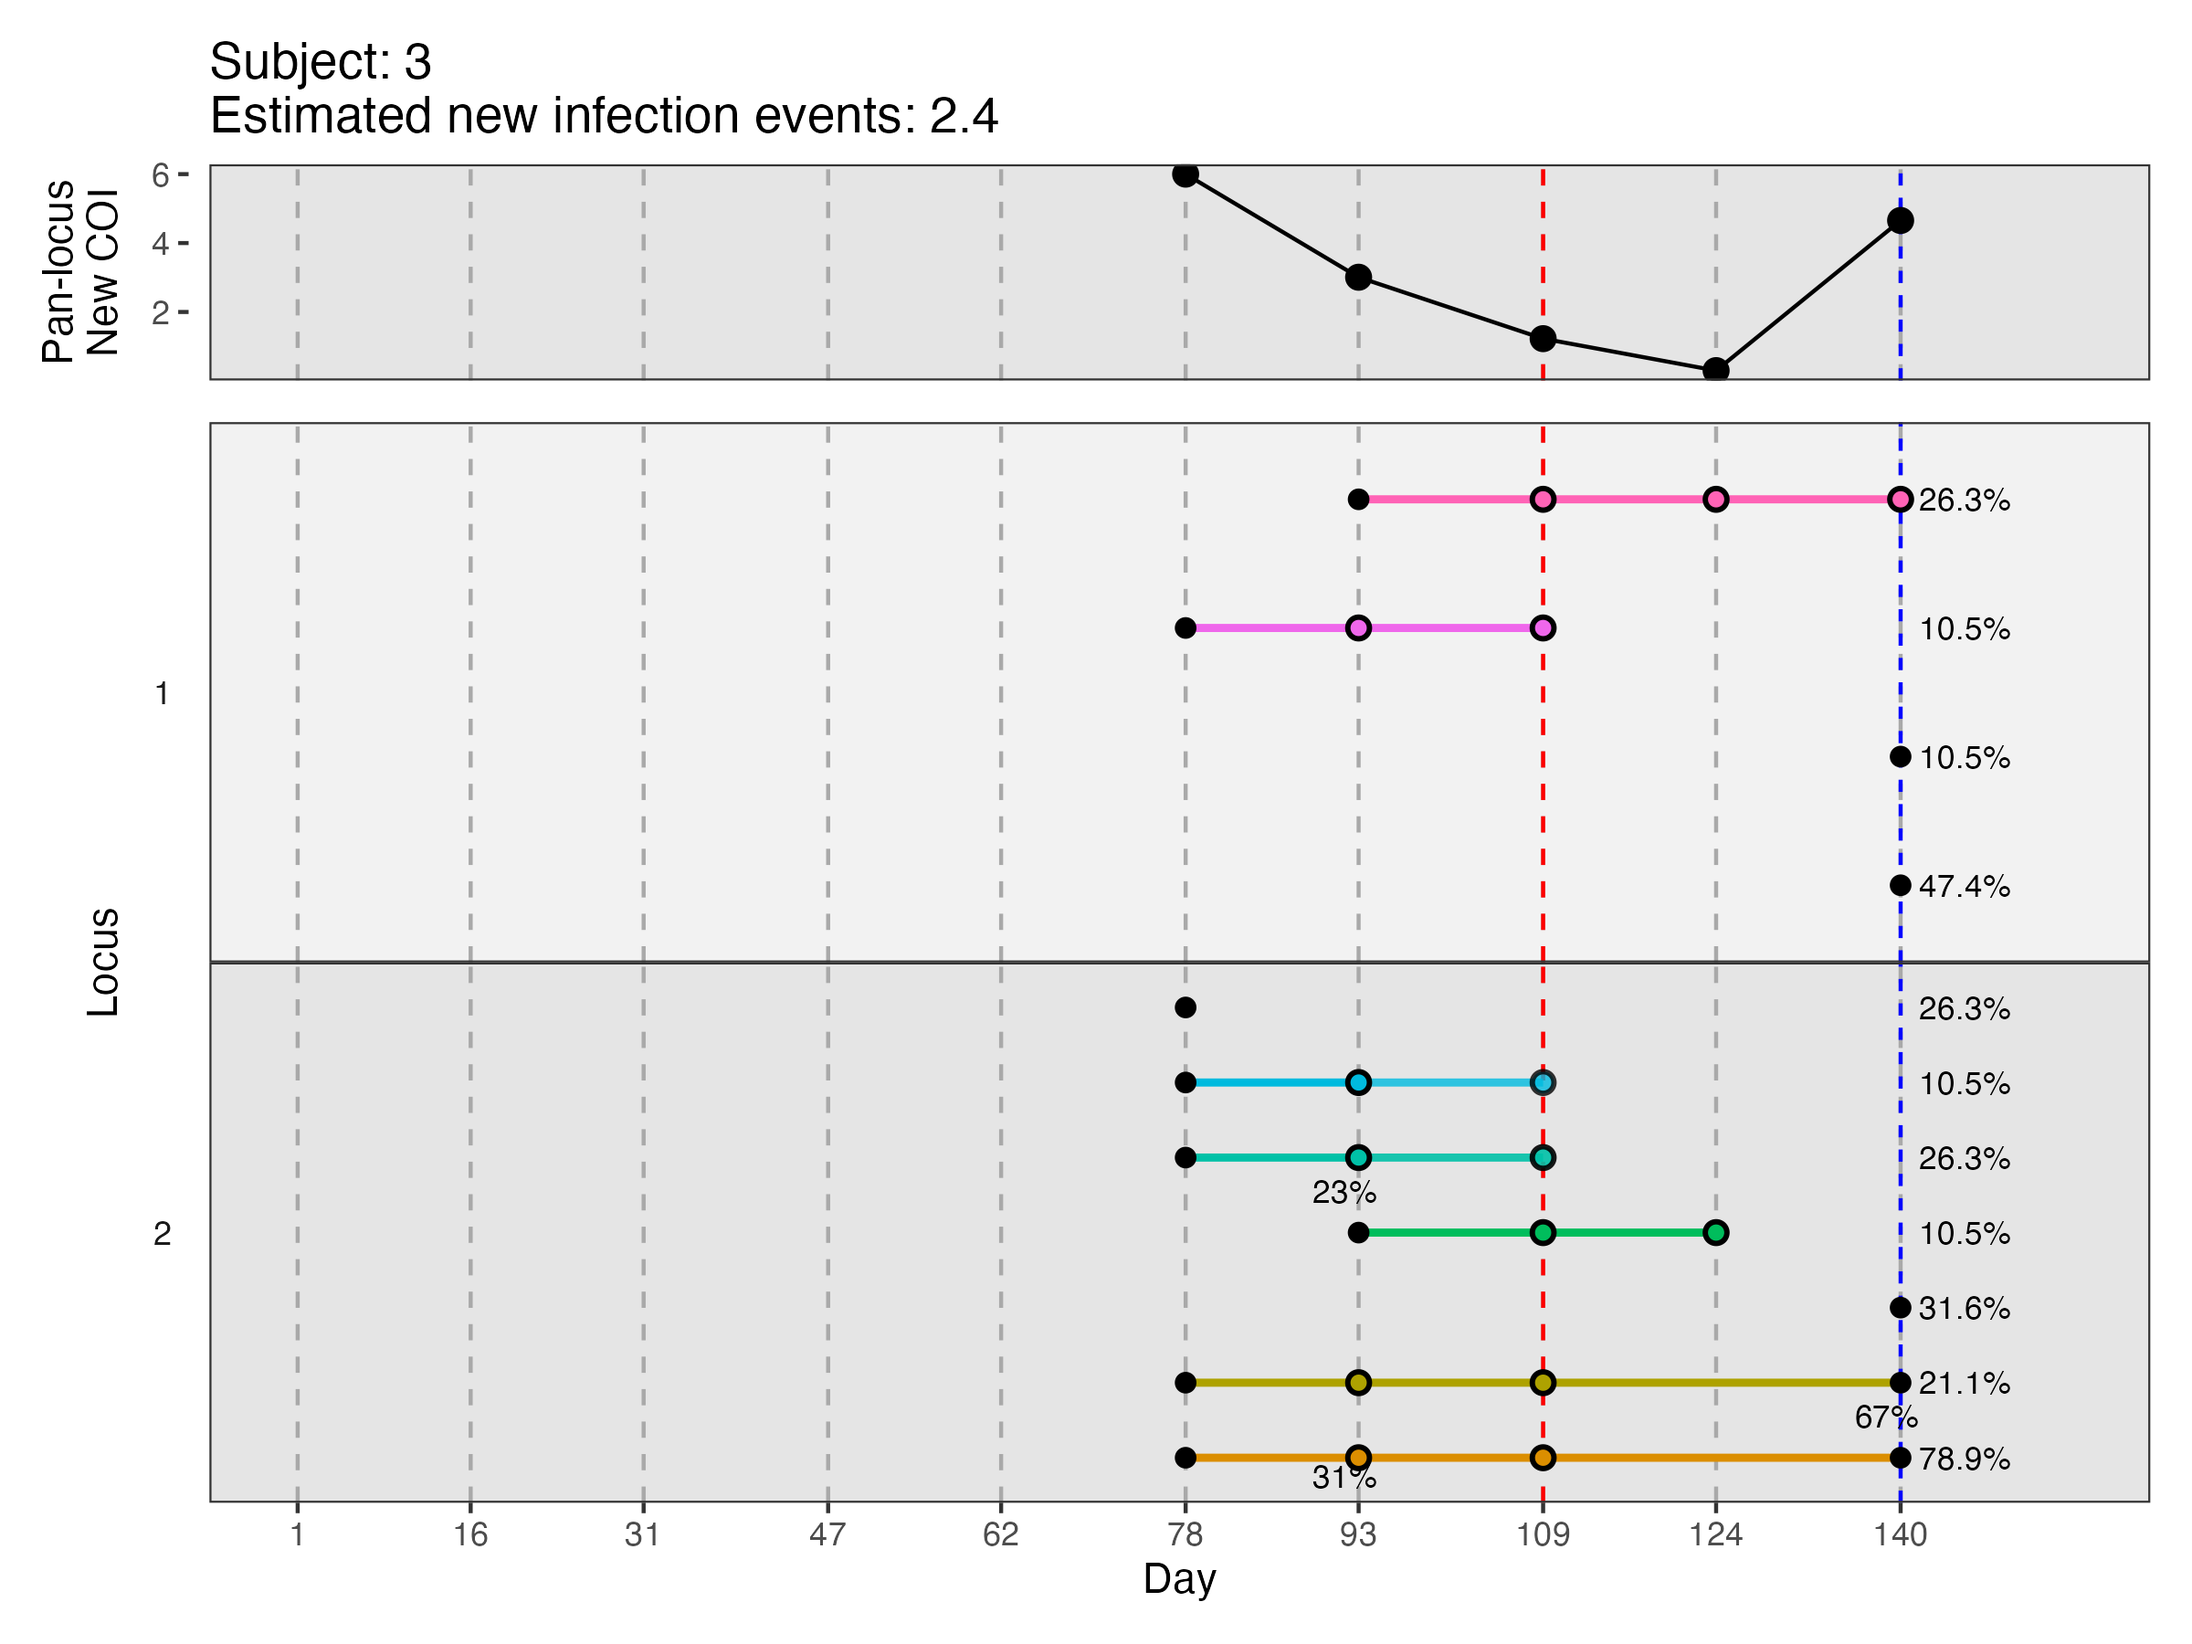
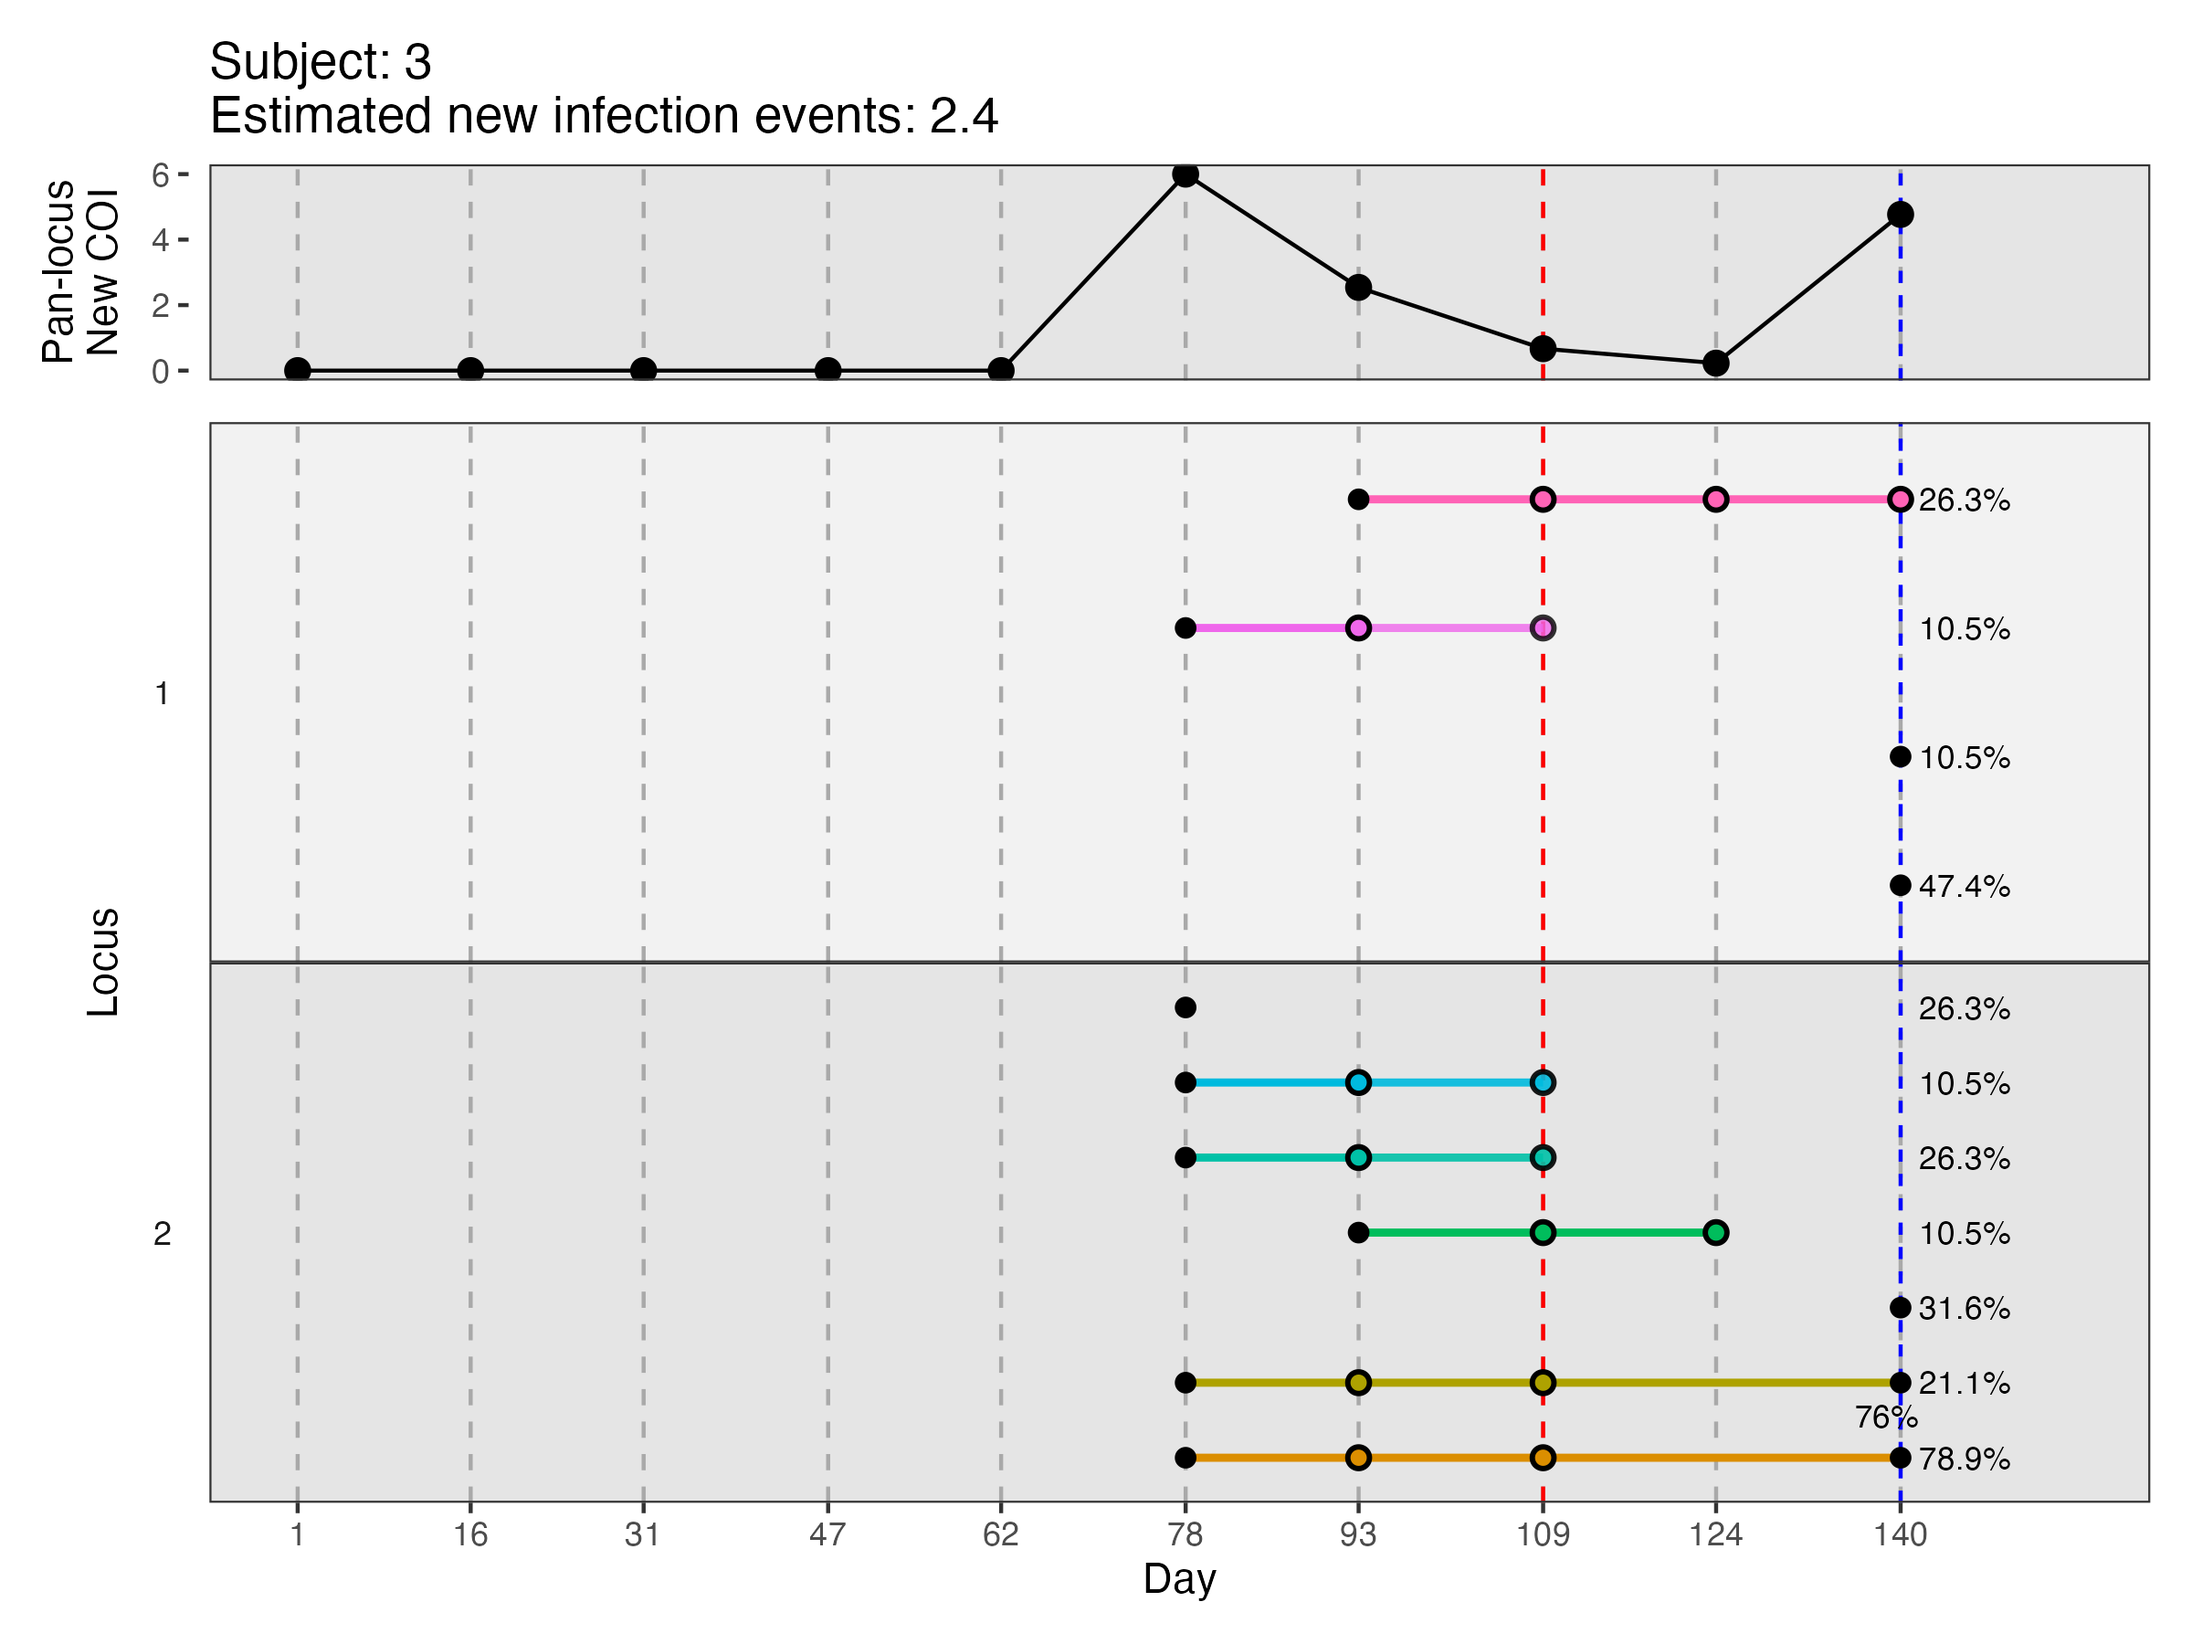
Updated imputation method

diff --git a/README.md b/README.md
@@ -4,7 +4,10 @@
 
 **DINEMITES** (**Di**stinguishing **Ne**w **M**alaria **I**nfections in 
 **T**im**e** **S**eries) is a comprehensive R package for distinguishing
-new from persistent infections in longitudinal sequencing data. It is intended
+new from persistent infections in longitudinal sequencing data. It can 
+determine probabilities individual alleles are new, estimate the new
+complexity of infection per person over the observation period, and infer the
+number of new infections over the observation period. It is intended
 for use with longitudinal malaria studies, but it can be applied to any 
 longitudinal data in which people can acquire a disease with multiple variants
 multiple times.
